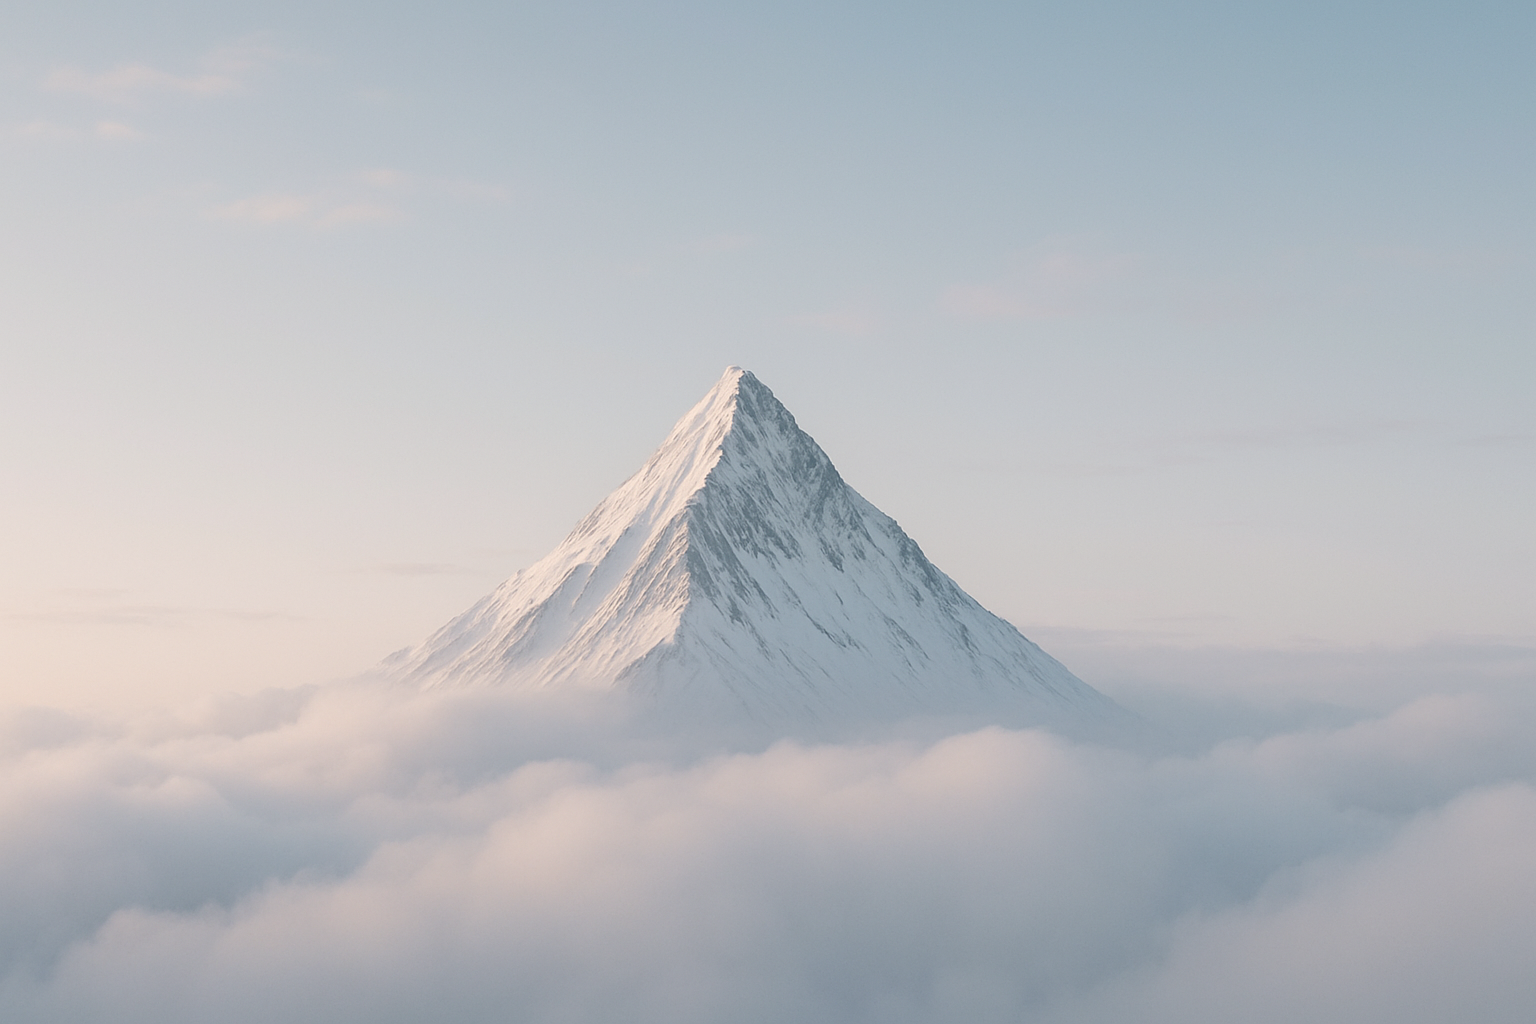
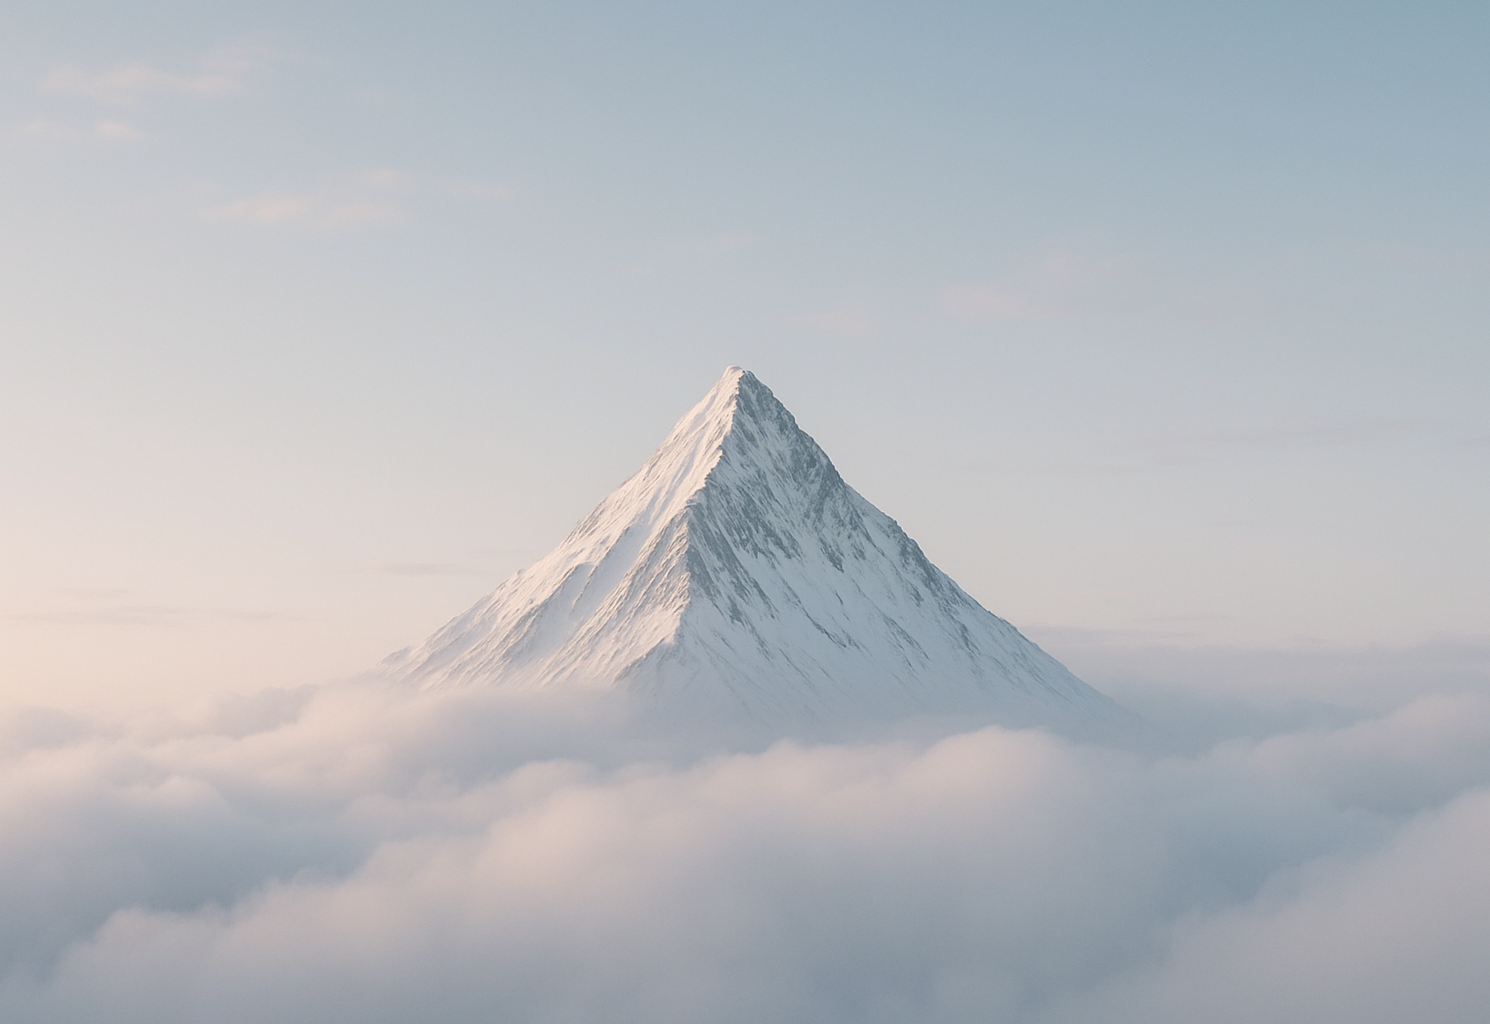
Поправки

diff --git a/index.html b/index.html
@@ -18,11 +18,11 @@
           <i load-hicon="arrow-up-circle" class="arrow_up" style="width: 41px; height: 41px; display: none;"></i>
         </a>
           <div class="col-10 d-flex justify-content-center align-items-center">
-            <a href="#contacts" class="nav_link px-4">КОНТАКТЫ</a>
+            <a href="#contacts" class="nav_link hero_nav_contacts_button px-5">КОНТАКТЫ</a>
             <a href="#" class="nav_logo">
               <img src="/cerber.png" alt="cerber">
             </a>
-            <div class="nav_link about_button px-4">О БРЕНДЕ</div>
+            <div class="nav_link about_button hero_nav_about_button px-5">О БРЕНДЕ</div>
           </div>
         <div class="col-1"></div>
       </nav>
@@ -32,10 +32,14 @@
     <section class="hero">
       <div class="background">
         <img src="/background.png" alt="cerber">
+        
       </div>
-      <div class="hero_main pb-5 mb-5">
+      <div class="mountain">
+          <img src="/mountain.png" alt="cerber">
+        </div>
+      <div class="hero_main pb-5 mb-5 d-flex justify-content-center align-items-center flex-column">
         <!-- Logo -->
-        <div class="logo pb-5">
+        <div class="logo">
           <img src="/cerber.png" alt="cerber">
         </div>
         <span class="hero_text">
@@ -57,33 +61,31 @@
     <footer class="" id="contacts">
       <div class="footer-container container pt-4 d-flex text-light" style="height: 100%;">
         <div class="row" style="width: 100%;">
-          <div class="col-4 pt-4">
+          <div class="col-4 pt-5">
             <a href="https://okaraf.ru" class="karaf_tag" target="_blank">MADE BY
               <br>
               <span style="font-size: 2.1rem;">KARAF</span></a>
           </div>
-          <div class="col-4 d-flex justify-content-center">
-            <div class="">
+          <div class="col-4 d-flex pb-5 justify-content-center align-items-center flex-column">
               <span class="footer_main_text">enjoy yourself with</span>
               <div class="footer_logo mt-2">
                 <img src="/cerber_light.png" alt="cerber">
               </div>
-            </div>
           </div>
-          <div class="col-4 d-flex justify-content-end">
-            <div class="pt-2">
+          <div class="col-4 d-flex align-items-end flex-column">
+            <div class="pt-3">
               <a href="mailto::contact@cerber.com" class="footer_link d-flex align-items-center">
                 <div class="footer_icon me-2">
                   <i load-hicon="email" style="width: 24px; height: 24px; color: black;"></i>
                 </div>
                 contact@cerber.com
-              </a> <br>
+              </a>
               <a href="https://t.me/cerber_nlc" class="footer_link d-flex align-items-center" target="_blank">
                 <div class="footer_icon me-2">
                   <i load-hicon="send" style="width: 24px; height: 24px; color: black;"></i>
                 </div>
                 @cerber_nlc
-              </a> <br>
+              </a>
               <a href="https://www.instagram.com/cerber.nlc/" class="footer_link d-flex align-items-center" target="_blank">
                 <div class="footer_icon me-2">
                   <i load-hicon="instagram" style="width: 24px; height: 24px; color: black;"></i>
@@ -100,12 +102,15 @@
   <div class="modal fade" data-lenis-prevent id="aboutModal" tabindex="-1" role="dialog">
     <div class="modal-dialog modal-dialog-centered">
       <div class="custom-modal-content modal-content">
-        <div class="custom-modal-header modal-header text-light" data-bs-theme="dark">
+        <div class="modal_background">
+          <img src="/wave.png" alt="">
+        </div>
+        <div class="custom-modal-header modal-header">
             <h2 class="custom-modal-title modal-title fs-5" id="enrollLabel">О БРЕНДЕ</h2>
             <button type="button" class="btn-close" data-bs-dismiss="modal" aria-label="Close"></button>
         </div>
-        <div class="modal-body text-light">
-          <span>Lorem ipsum dolor sit amet consectetur, adipisicing elit. Accusantium molestias perferendis, accusamus natus sunt ratione.</span>
+        <div class="modal-body">
+          <span>Объединить уличную культуру и кавказскую идентичность. Дать голос культуре через форму, ткань и тишину.</span>
         </div>
       </div>
     </div>

diff --git a/product/index.html b/product/index.html
@@ -18,11 +18,11 @@
           <i load-hicon="arrow-up-circle" class="arrow_up" style="width: 41px; height: 41px;"></i>
         </a>
           <div class="col-10 d-flex justify-content-center align-items-center">
-            <a href="#contacts" class="nav_link px-4">КОНТАКТЫ</a>
+            <a href="#contacts" class="nav_link">КОНТАКТЫ</a>
             <a href="../../" class="nav_logo d-flex">
               <img src="/cerber.png" alt="cerber">
             </a>
-            <div class="nav_link about_button px-4">О БРЕНДЕ</div>
+            <div class="nav_link about_button">О БРЕНДЕ</div>
           </div>
         <div class="col-1"></div>
       </nav>
@@ -75,37 +75,35 @@
         </div>
     </div>
 
-<!-- Footer -->
+    <!-- Footer -->
     <footer class="" id="contacts">
       <div class="footer-container container pt-4 d-flex text-light" style="height: 100%;">
         <div class="row" style="width: 100%;">
-          <div class="col-4 pt-4">
+          <div class="col-4 pt-5">
             <a href="https://okaraf.ru" class="karaf_tag" target="_blank">MADE BY
               <br>
               <span style="font-size: 2.1rem;">KARAF</span></a>
           </div>
-          <div class="col-4 d-flex justify-content-center">
-            <div class="">
+          <div class="col-4 d-flex pb-5 justify-content-center align-items-center flex-column">
               <span class="footer_main_text">enjoy yourself with</span>
               <div class="footer_logo mt-2">
                 <img src="/cerber_light.png" alt="cerber">
               </div>
-            </div>
           </div>
-          <div class="col-4 d-flex justify-content-end">
-            <div class="pt-2">
+          <div class="col-4 d-flex align-items-end flex-column">
+            <div class="pt-3">
               <a href="mailto::contact@cerber.com" class="footer_link d-flex align-items-center">
                 <div class="footer_icon me-2">
                   <i load-hicon="email" style="width: 24px; height: 24px; color: black;"></i>
                 </div>
                 contact@cerber.com
-              </a> <br>
+              </a>
               <a href="https://t.me/cerber_nlc" class="footer_link d-flex align-items-center" target="_blank">
                 <div class="footer_icon me-2">
                   <i load-hicon="send" style="width: 24px; height: 24px; color: black;"></i>
                 </div>
                 @cerber_nlc
-              </a> <br>
+              </a>
               <a href="https://www.instagram.com/cerber.nlc/" class="footer_link d-flex align-items-center" target="_blank">
                 <div class="footer_icon me-2">
                   <i load-hicon="instagram" style="width: 24px; height: 24px; color: black;"></i>
@@ -122,12 +120,15 @@
   <div class="modal fade" data-lenis-prevent id="aboutModal" tabindex="-1" role="dialog">
     <div class="modal-dialog modal-dialog-centered">
       <div class="custom-modal-content modal-content">
-        <div class="custom-modal-header modal-header text-light" data-bs-theme="dark">
+        <div class="modal_background">
+          <img src="/wave.png" alt="">
+        </div>
+        <div class="custom-modal-header modal-header">
             <h2 class="custom-modal-title modal-title fs-5" id="enrollLabel">О БРЕНДЕ</h2>
             <button type="button" class="btn-close" data-bs-dismiss="modal" aria-label="Close"></button>
         </div>
-        <div class="modal-body text-light">
-          <span>Lorem ipsum dolor sit amet consectetur, adipisicing elit. Accusantium molestias perferendis, accusamus natus sunt ratione.</span>
+        <div class="modal-body">
+          <span>Объединить уличную культуру и кавказскую идентичность. Дать голос культуре через форму, ткань и тишину.</span>
         </div>
       </div>
     </div>

diff --git a/src/css/style.css b/src/css/style.css
@@ -40,6 +40,7 @@
 /* --------------- Body ---------------- */
 body{
   font-family: Pragmatica;
+  letter-spacing: 3px;
 }
 /* --------------- End of Body ---------------- */
 
@@ -50,7 +51,7 @@ body{
 
     transition: transform .3s, background-color .7s;
 
-    top: 10px;
+    top: 19px;
     width: 59vw;
     height: 4.3rem;
 
@@ -63,8 +64,8 @@ body{
     display: none;
     width: 14rem;
     height: 100%;
-    margin-left: 3rem;
-    margin-right: 3rem;
+    margin-left: 5rem;
+    margin-right: 5rem;
     padding-bottom: 7px;
     cursor: pointer;
 }
@@ -100,6 +101,8 @@ footer {
     text-decoration: none;
     cursor: pointer;
     font-size: 1.3rem;
+    line-height: 49px;
+    letter-spacing: 1px;
     /* font-family: Inter; */
 }
 .footer_icon {
@@ -136,14 +139,31 @@ footer {
 
 /* --------------- Modal ---------------- */
 .custom-modal-content {
-    background: rgb(15, 15, 15) !important;
+    /* background: rgb(15, 15, 15) !important;
     opacity: 0.9 !important;
     box-shadow: 0 4px 30px rgb(48,44,44, 0.1) !important;
     backdrop-filter: blur(6.8px) !important;
     -webkit-backdrop-filter: blur(6.8px) !important;
-    border: 1px solid rgba(93, 93, 93, 0.3) !important;
+    border: 1px solid rgba(93, 93, 93, 0.3) !important; */
+    font-family: Intro;
+    letter-spacing: 2px;
+}
+.custom-modal-title {
+    color: black;
 }
 .custom-modal-header {
   border-bottom: none !important;
+  z-index: 300;
+}
+.modal_background{
+    position: absolute;
+    width: 100%;
+    height: 100%;
+}
+.modal_background img{
+    width: 100%;
+    height: 100%;
+    object-fit: cover;
+    border-radius: 5px;
 }
 /* --------------- End of Modal ---------------- */

diff --git a/src/js/main.js b/src/js/main.js
@@ -5,15 +5,21 @@ import { collection } from "/src/js/contentful.js"
 const nav_logo = document.querySelector(".nav_logo");
 const navbar = document.querySelector(".navbar");
 const arrow_up = document.querySelector(".arrow_up");
+const hero_nav_contacts_button = document.querySelector('.hero_nav_contacts_button');
+const hero_nav_about_button = document.querySelector('.hero_nav_about_button');
 window.addEventListener('scroll', () => {
     if(window.scrollY >= window.innerHeight/2) {
         nav_logo.style.display = "flex";
         arrow_up.style.display = "block"
         navbar.style.backgroundColor = "rgba(235,252,255,0.85)";
+        hero_nav_contacts_button.classList.remove('px-5');
+        hero_nav_about_button.classList.remove('px-5');
     } else {
         nav_logo.style.display = "none";
         arrow_up.style.display = "none"
         navbar.style.backgroundColor = "rgba(217, 217, 217, 0)";
+        hero_nav_contacts_button.classList.add('px-5');
+        hero_nav_about_button.classList.add('px-5');
     }
     
 });

diff --git a/src/css/main.css b/src/css/main.css
@@ -12,6 +12,21 @@
   height: 100%;
   object-fit: cover;
 }
+.mountain{
+  width: 100%;
+  height: 100vh;
+  position: absolute;
+  top: 10px;
+  display: flex;
+  justify-content: center;
+  align-items: center;
+  z-index: 250;
+}
+.mountain img{
+  width: 100%;
+  height: 100%;
+  object-fit: cover;
+}
 .hero{
     height: 100vh;
     width: 100vw;
@@ -27,13 +42,22 @@
     position: absolute; 
     width: 100%;
     color: rgba(255, 255, 255, 0.87);
-    z-index: 200;
 }
 .logo {
   opacity: 0.8;
+  margin-bottom: 101px;
+  width: 65rem;
+  height: 100%;
+  position: relative;
+  z-index: 200;
+}
+.logo img {
+  width: 100%;
+  height: 100%;
+  object-fit: cover;
 }
 .hero_text {
-  font-size: 4.5rem;
+  font-size: 4.9rem;
   line-height: 4.7rem;
   font-family: Intro;
   display: block;
@@ -44,6 +68,8 @@
   background-clip: text;
   -webkit-text-fill-color: transparent;
   color: transparent;
+
+  z-index: 300;
 }
 
 
